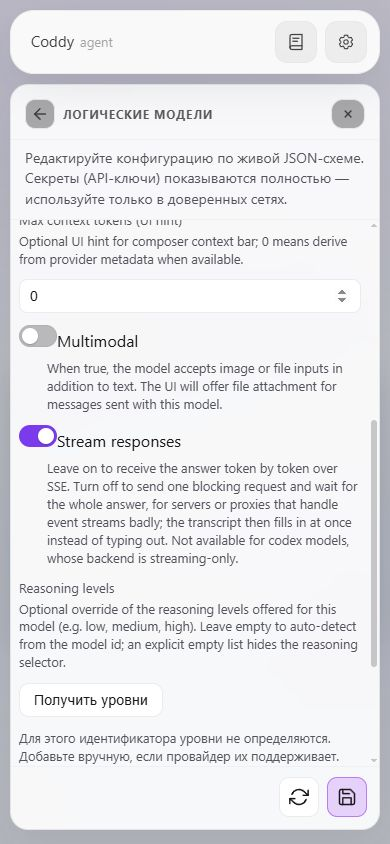
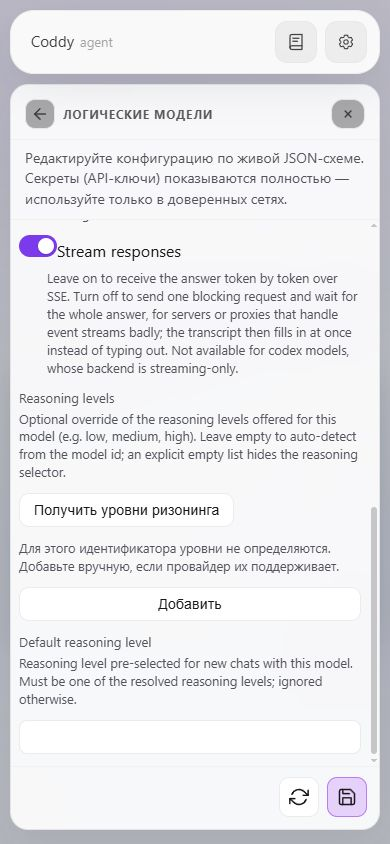
fix(ui): clarify Russian reasoning actions

diff --git a/external/ui/src/ui/i18n/messages/ru.ts b/external/ui/src/ui/i18n/messages/ru.ts
@@ -102,19 +102,19 @@ export const messagesRu: Record<string, string> = {
   "settings.field.noModels":
     "Модели не возвращены. Введите идентификатор модели вручную ниже.",
   "settings.reasoning.levelsFallback": "Уровни рассуждений",
-  "settings.reasoning.fetch": "Получить уровни",
-  "settings.reasoning.fetching": "Получение…",
-  "settings.reasoning.useAuto": "Автоопределение",
+  "settings.reasoning.fetch": "Получить уровни ризонинга",
+  "settings.reasoning.fetching": "Получение уровней ризонинга…",
+  "settings.reasoning.useAuto": "Использовать автоопределение",
   "settings.reasoning.autoDetected":
-    "Определяются автоматически по идентификатору модели. Нажмите «Получить уровни», чтобы посмотреть или переопределить их.",
+    "Определяются автоматически по идентификатору модели. Нажмите «Получить уровни ризонинга», чтобы посмотреть или переопределить их.",
   "settings.reasoning.overridden":
     "Для этой модели предлагаются именно эти уровни вместо автоопределённых.",
   "settings.reasoning.hidden":
-    "Пустой список: селектор рассуждений скрыт для этой модели. Нажмите «Автоопределение», чтобы вернуть как было.",
+    "Пустой список: селектор рассуждений скрыт для этой модели. Нажмите «Использовать автоопределение», чтобы вернуть как было.",
   "settings.reasoning.noneDetected":
     "Для этого идентификатора уровни не определяются. Добавьте вручную, если провайдер их поддерживает.",
   "settings.reasoning.fetchError":
-    "Не удалось получить уровни: {error}. Добавьте их вручную ниже.",
+    "Не удалось получить уровни ризонинга: {error}. Добавьте их вручную ниже.",
 
   "settings.field.apiKeyPlaceholder":
     "Если пусто, читается из {env} во время выполнения, либо укажите ключ явно (в YAML можно использовать {varToken} при загрузке)",

diff --git a/external/ui/src/ui/i18n/messagesParity.test.ts b/external/ui/src/ui/i18n/messagesParity.test.ts
@@ -1,5 +1,6 @@
 import { expect, test } from "vitest";
 import { UI_LOCALES, UI_LOCALE_DEFAULT, UI_LOCALE_IDS } from "./locales";
+import { messagesRu } from "./messages/ru";
 
 test("every registered dictionary exposes the default locale keys", () => {
   const defaultKeys = new Set(
@@ -38,4 +39,13 @@ test("every interpolation token used in the default locale exists everywhere", (
       );
     }
   }
+});
+
+test("Russian reasoning actions use the requested explicit labels", () => {
+  expect(messagesRu["settings.reasoning.useAuto"]).toBe(
+    "Использовать автоопределение",
+  );
+  expect(messagesRu["settings.reasoning.fetch"]).toBe(
+    "Получить уровни ризонинга",
+  );
 });
